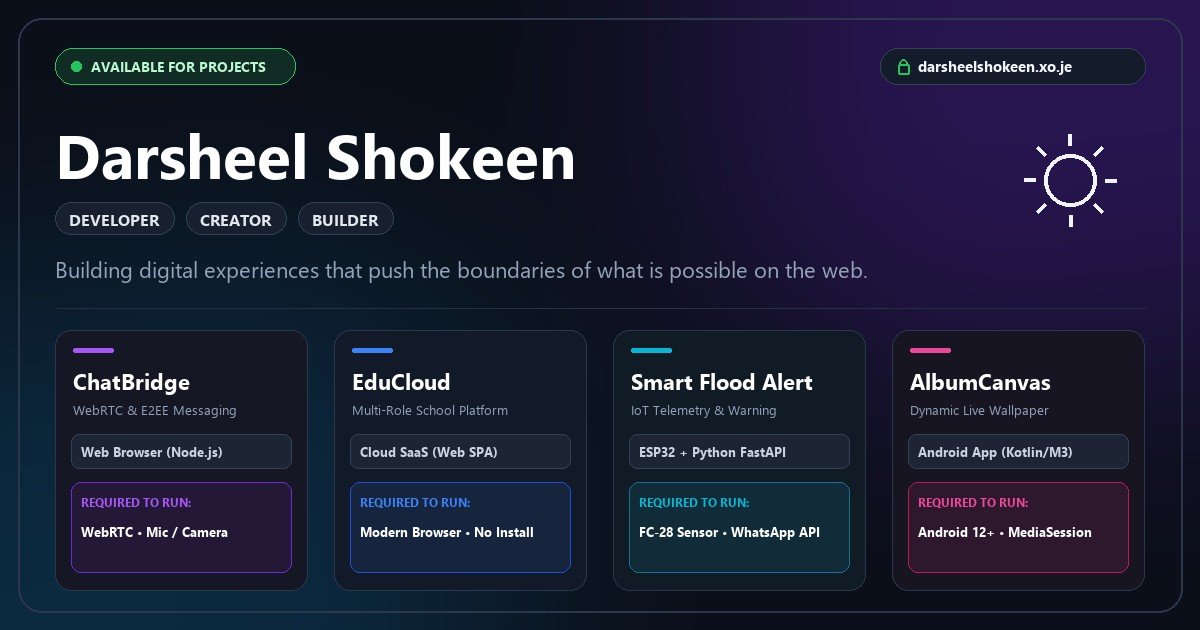
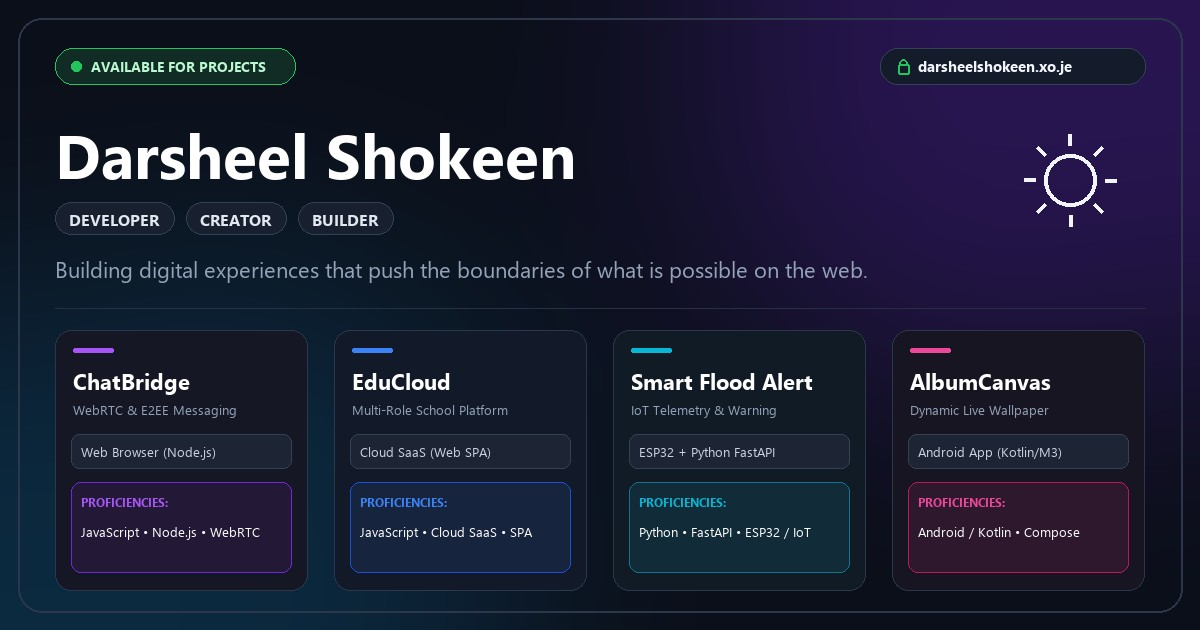
feat: highlight core proficiencies across portfolio and project cards

diff --git a/projects.html b/projects.html
@@ -102,13 +102,15 @@
                             <span class="project-tag">WebSockets</span>
                             <span class="project-tag">Node.js</span>
                         </div>
-                        <div class="project-requirements">
-                            <span class="req-label">
-                                <svg xmlns="http://www.w3.org/2000/svg" width="13" height="13" viewBox="0 0 24 24" fill="none" stroke="currentColor" stroke-width="2" stroke-linecap="round" stroke-linejoin="round"><rect width="18" height="18" x="3" y="3" rx="2"/><path d="m9 12 2 2 4-4"/></svg>
-                                Requires:
+                        <div class="project-proficiencies">
+                            <span class="prof-label">
+                                <svg xmlns="http://www.w3.org/2000/svg" width="13" height="13" viewBox="0 0 24 24" fill="none" stroke="currentColor" stroke-width="2" stroke-linecap="round" stroke-linejoin="round"><path d="m18 16 4-4-4-4"/><path d="m6 8-4 4 4 4"/><path d="m14.5 4-5 16"/></svg>
+                                Proficiencies:
                             </span>
-                            <span class="req-badge req-badge-purple">Modern Web Browser</span>
-                            <span class="req-badge req-badge-purple">WebRTC & Camera/Mic</span>
+                            <span class="prof-tag prof-tag-purple">JavaScript</span>
+                            <span class="prof-tag prof-tag-purple">Node.js</span>
+                            <span class="prof-tag prof-tag-purple">WebRTC</span>
+                            <span class="prof-tag prof-tag-purple">E2EE</span>
                         </div>
                         <span class="project-read-more">Open App →</span>
                     </div>
@@ -138,13 +140,15 @@
                             <span class="project-tag">Real-time DB</span>
                             <span class="project-tag">SPA</span>
                         </div>
-                        <div class="project-requirements">
-                            <span class="req-label">
-                                <svg xmlns="http://www.w3.org/2000/svg" width="13" height="13" viewBox="0 0 24 24" fill="none" stroke="currentColor" stroke-width="2" stroke-linecap="round" stroke-linejoin="round"><rect width="18" height="18" x="3" y="3" rx="2"/><path d="m9 12 2 2 4-4"/></svg>
-                                Requires:
+                        <div class="project-proficiencies">
+                            <span class="prof-label">
+                                <svg xmlns="http://www.w3.org/2000/svg" width="13" height="13" viewBox="0 0 24 24" fill="none" stroke="currentColor" stroke-width="2" stroke-linecap="round" stroke-linejoin="round"><path d="m18 16 4-4-4-4"/><path d="m6 8-4 4 4 4"/><path d="m14.5 4-5 16"/></svg>
+                                Proficiencies:
                             </span>
-                            <span class="req-badge req-badge-blue">Cross-Platform Browser</span>
-                            <span class="req-badge req-badge-blue">Zero Installation</span>
+                            <span class="prof-tag prof-tag-blue">JavaScript (ES6+)</span>
+                            <span class="prof-tag prof-tag-blue">Cloud SaaS</span>
+                            <span class="prof-tag prof-tag-blue">SPA Architecture</span>
+                            <span class="prof-tag prof-tag-blue">State Management</span>
                         </div>
                         <span class="project-read-more">Open App →</span>
                     </div>
@@ -175,13 +179,15 @@
                             <span class="project-tag">Python</span>
                             <span class="project-tag">Meta Cloud API</span>
                         </div>
-                        <div class="project-requirements">
-                            <span class="req-label">
-                                <svg xmlns="http://www.w3.org/2000/svg" width="13" height="13" viewBox="0 0 24 24" fill="none" stroke="currentColor" stroke-width="2" stroke-linecap="round" stroke-linejoin="round"><rect width="18" height="18" x="3" y="3" rx="2"/><path d="m9 12 2 2 4-4"/></svg>
-                                Requires:
+                        <div class="project-proficiencies">
+                            <span class="prof-label">
+                                <svg xmlns="http://www.w3.org/2000/svg" width="13" height="13" viewBox="0 0 24 24" fill="none" stroke="currentColor" stroke-width="2" stroke-linecap="round" stroke-linejoin="round"><path d="m18 16 4-4-4-4"/><path d="m6 8-4 4 4 4"/><path d="m14.5 4-5 16"/></svg>
+                                Proficiencies:
                             </span>
-                            <span class="req-badge req-badge-cyan">ESP32 + FC-28 Sensor</span>
-                            <span class="req-badge req-badge-cyan">Python 3.10+ & WhatsApp API</span>
+                            <span class="prof-tag prof-tag-cyan">Python</span>
+                            <span class="prof-tag prof-tag-cyan">FastAPI</span>
+                            <span class="prof-tag prof-tag-cyan">ESP32 / IoT</span>
+                            <span class="prof-tag prof-tag-cyan">WhatsApp API</span>
                         </div>
                         <span class="project-read-more">Launch Dashboard →</span>
                     </div>
@@ -212,13 +218,15 @@
                             <span class="project-tag">Material 3</span>
                             <span class="project-tag">MediaSession</span>
                         </div>
-                        <div class="project-requirements">
-                            <span class="req-label">
-                                <svg xmlns="http://www.w3.org/2000/svg" width="13" height="13" viewBox="0 0 24 24" fill="none" stroke="currentColor" stroke-width="2" stroke-linecap="round" stroke-linejoin="round"><rect width="18" height="18" x="3" y="3" rx="2"/><path d="m9 12 2 2 4-4"/></svg>
-                                Requires:
+                        <div class="project-proficiencies">
+                            <span class="prof-label">
+                                <svg xmlns="http://www.w3.org/2000/svg" width="13" height="13" viewBox="0 0 24 24" fill="none" stroke="currentColor" stroke-width="2" stroke-linecap="round" stroke-linejoin="round"><path d="m18 16 4-4-4-4"/><path d="m6 8-4 4 4 4"/><path d="m14.5 4-5 16"/></svg>
+                                Proficiencies:
                             </span>
-                            <span class="req-badge req-badge-pink">Android 12+ (API 31+)</span>
-                            <span class="req-badge req-badge-pink">Active Media Player</span>
+                            <span class="prof-tag prof-tag-pink">Android / Kotlin</span>
+                            <span class="prof-tag prof-tag-pink">Jetpack Compose</span>
+                            <span class="prof-tag prof-tag-pink">Material 3</span>
+                            <span class="prof-tag prof-tag-pink">MediaSession</span>
                         </div>
                         <span class="project-read-more">Explore App →</span>
                     </div>

diff --git a/styles.css b/styles.css
@@ -909,7 +909,8 @@ a {
     background: rgba(0, 0, 0, 0.04);
 }
 
-/* ----- Project Requirements Badges ----- */
+/* ----- Project Proficiencies Badges ----- */
+.project-proficiencies,
 .project-requirements {
     display: flex;
     flex-wrap: wrap;
@@ -924,15 +925,18 @@ a {
     transition: all 0.3s ease;
 }
 
+:root.light-mode .project-proficiencies,
 :root.light-mode .project-requirements {
     background: rgba(0, 0, 0, 0.02);
 }
 
+.project-card:hover .project-proficiencies,
 .project-card:hover .project-requirements {
     border-color: var(--border-hover);
     background: rgba(255, 255, 255, 0.04);
 }
 
+.prof-label,
 .req-label {
     display: inline-flex;
     align-items: center;
@@ -945,10 +949,12 @@ a {
     margin-right: 0.2rem;
 }
 
+.prof-label svg,
 .req-label svg {
     color: var(--fg-faint);
 }
 
+.prof-tag,
 .req-badge {
     display: inline-flex;
     align-items: center;
@@ -960,53 +966,132 @@ a {
     transition: all 0.2s ease;
 }
 
+.prof-tag-purple,
 .req-badge-purple {
     background: rgba(168, 85, 247, 0.12);
     color: #c084fc;
     border: 1px solid rgba(168, 85, 247, 0.3);
 }
 
+.prof-tag-blue,
 .req-badge-blue {
     background: rgba(59, 130, 246, 0.12);
     color: #60a5fa;
     border: 1px solid rgba(59, 130, 246, 0.3);
 }
 
+.prof-tag-cyan,
 .req-badge-cyan {
     background: rgba(6, 182, 212, 0.12);
     color: #22d3ee;
     border: 1px solid rgba(6, 182, 212, 0.3);
 }
 
+.prof-tag-pink,
 .req-badge-pink {
     background: rgba(236, 72, 153, 0.12);
     color: #f472b6;
     border: 1px solid rgba(236, 72, 153, 0.3);
 }
 
+:root.light-mode .prof-tag-purple,
 :root.light-mode .req-badge-purple {
     background: rgba(168, 85, 247, 0.1);
     color: #7e22ce;
     border-color: rgba(168, 85, 247, 0.35);
 }
 
+:root.light-mode .prof-tag-blue,
 :root.light-mode .req-badge-blue {
     background: rgba(59, 130, 246, 0.1);
     color: #1d4ed8;
     border-color: rgba(59, 130, 246, 0.35);
 }
 
+:root.light-mode .prof-tag-cyan,
 :root.light-mode .req-badge-cyan {
     background: rgba(6, 182, 212, 0.1);
     color: #0e7490;
     border-color: rgba(6, 182, 212, 0.35);
 }
 
+:root.light-mode .prof-tag-pink,
 :root.light-mode .req-badge-pink {
     background: rgba(236, 72, 153, 0.1);
     color: #be185d;
     border-color: rgba(236, 72, 153, 0.35);
 }
+
+/* ----- Hero Core Proficiencies Showcase ----- */
+.hero-proficiencies {
+    margin-top: 1.6rem;
+    max-width: 620px;
+    margin-left: auto;
+    margin-right: auto;
+    animation: taglineFadeIn 1.2s var(--ease-out) both;
+    animation-delay: 0.85s;
+}
+
+.proficiencies-label {
+    font-size: 0.7rem;
+    font-weight: 600;
+    text-transform: uppercase;
+    letter-spacing: 0.08em;
+    color: var(--fg-faint);
+    margin-bottom: 0.65rem;
+}
+
+.proficiencies-grid {
+    display: flex;
+    flex-wrap: wrap;
+    justify-content: center;
+    gap: 0.45rem;
+}
+
+.prof-badge {
+    display: inline-flex;
+    align-items: center;
+    gap: 0.4rem;
+    font-size: 0.76rem;
+    font-weight: 500;
+    padding: 0.3rem 0.75rem;
+    background: rgba(255, 255, 255, 0.035);
+    border: 1px solid var(--border);
+    border-radius: 100px;
+    color: var(--fg);
+    letter-spacing: 0.01em;
+    transition: all 0.25s ease;
+}
+
+.prof-badge:hover {
+    border-color: var(--border-hover);
+    background: rgba(255, 255, 255, 0.07);
+    transform: translateY(-2px);
+}
+
+:root.light-mode .prof-badge {
+    background: rgba(0, 0, 0, 0.03);
+}
+
+:root.light-mode .prof-badge:hover {
+    background: rgba(0, 0, 0, 0.06);
+}
+
+.prof-dot {
+    width: 6px;
+    height: 6px;
+    border-radius: 50%;
+    display: inline-block;
+}
+
+.prof-python .prof-dot { background: #38bdf8; box-shadow: 0 0 8px rgba(56, 189, 248, 0.6); }
+.prof-js .prof-dot { background: #facc15; box-shadow: 0 0 8px rgba(250, 204, 21, 0.6); }
+.prof-node .prof-dot { background: #22c55e; box-shadow: 0 0 8px rgba(34, 197, 94, 0.6); }
+.prof-webrtc .prof-dot { background: #a855f7; box-shadow: 0 0 8px rgba(168, 85, 247, 0.6); }
+.prof-fastapi .prof-dot { background: #14b8a6; box-shadow: 0 0 8px rgba(20, 184, 166, 0.6); }
+.prof-iot .prof-dot { background: #f97316; box-shadow: 0 0 8px rgba(249, 115, 22, 0.6); }
+.prof-android .prof-dot { background: #10b981; box-shadow: 0 0 8px rgba(16, 185, 129, 0.6); }
+.prof-compose .prof-dot { background: #ec4899; box-shadow: 0 0 8px rgba(236, 72, 153, 0.6); }
 
 .project-read-more {
     display: inline-block;

diff --git a/index.html b/index.html
@@ -92,6 +92,21 @@
                 I build <a href="projects.html" class="hero-highlight">digital experiences</a> that push the boundaries of what's possible on the web.
             </p>
 
+            <!-- Core Proficiencies Showcase -->
+            <div class="hero-proficiencies">
+                <div class="proficiencies-label">Core Proficiencies</div>
+                <div class="proficiencies-grid">
+                    <span class="prof-badge prof-python"><span class="prof-dot"></span>Python</span>
+                    <span class="prof-badge prof-js"><span class="prof-dot"></span>JavaScript</span>
+                    <span class="prof-badge prof-node"><span class="prof-dot"></span>Node.js</span>
+                    <span class="prof-badge prof-webrtc"><span class="prof-dot"></span>WebRTC</span>
+                    <span class="prof-badge prof-fastapi"><span class="prof-dot"></span>FastAPI</span>
+                    <span class="prof-badge prof-iot"><span class="prof-dot"></span>ESP32 / IoT</span>
+                    <span class="prof-badge prof-android"><span class="prof-dot"></span>Android / Kotlin</span>
+                    <span class="prof-badge prof-compose"><span class="prof-dot"></span>Jetpack Compose</span>
+                </div>
+            </div>
+
             <!-- Social row (magic-portfolio style) -->
             <div class="hero-socials" id="hero-socials">
                 <a href="https://github.com/DarsheelShokeen" target="_blank" rel="noopener noreferrer" class="social-icon" aria-label="GitHub">
